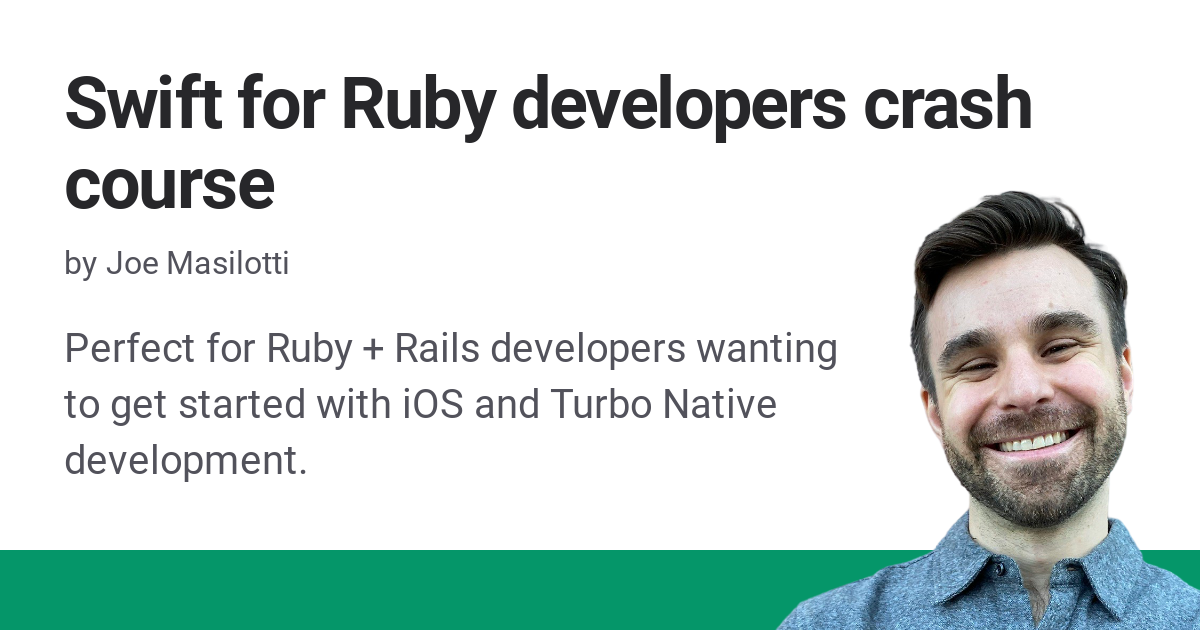
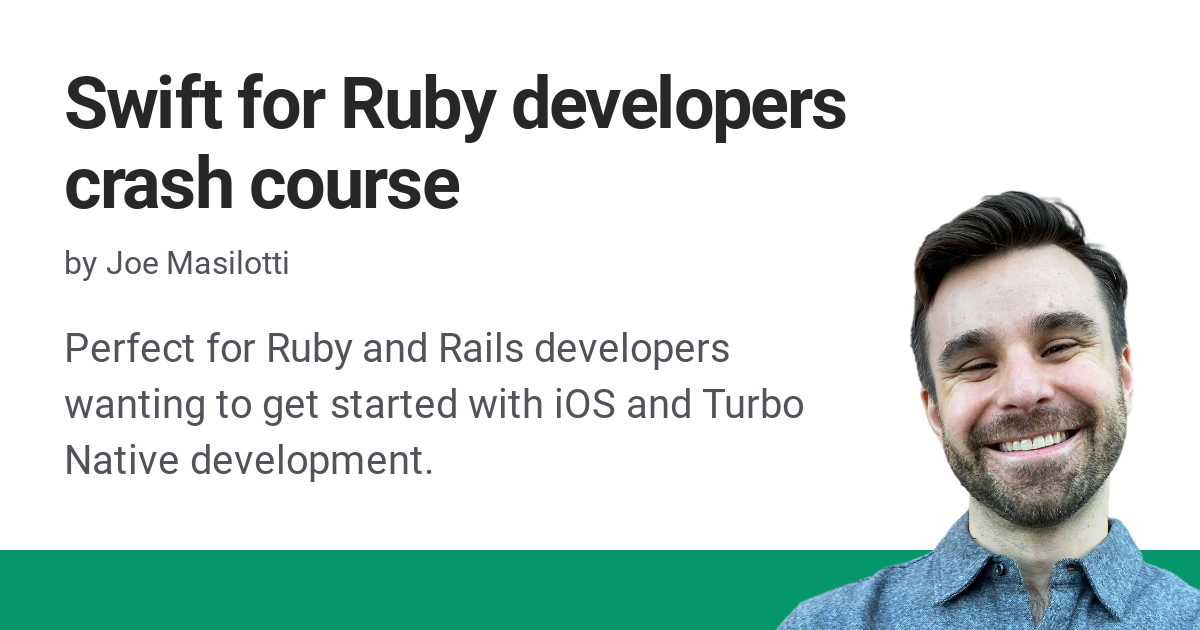
Clean up link preview image + meta

diff --git a/src/_posts/2023-04-25-swift-for-ruby-developers.md b/src/_posts/2023-04-25-swift-for-ruby-developers.md
@@ -2,14 +2,16 @@
 title: Swift for Ruby developers crash course
 date: 2023-04-25
 description: |
-  If you're a Ruby + Rails developer looking to dive into iOS development, this
+  If you're a Ruby or Rails developer looking to dive into iOS development, this
   crash course on Swift is exactly what you need! Ideal for anyone interested
   in Turbo Native development.
 permalink: /swift-for-ruby-developers/
 
 template_engine: erb
+previewify_title: Swift for Ruby developers<br>crash course
 previewify_description: |
-    Perfect for Ruby + Rails developers wanting to get started with iOS and Turbo Native development.
+    Perfect for Ruby and Rails developers wanting to get started with iOS and
+    Turbo Native development.
 
 ---
 
